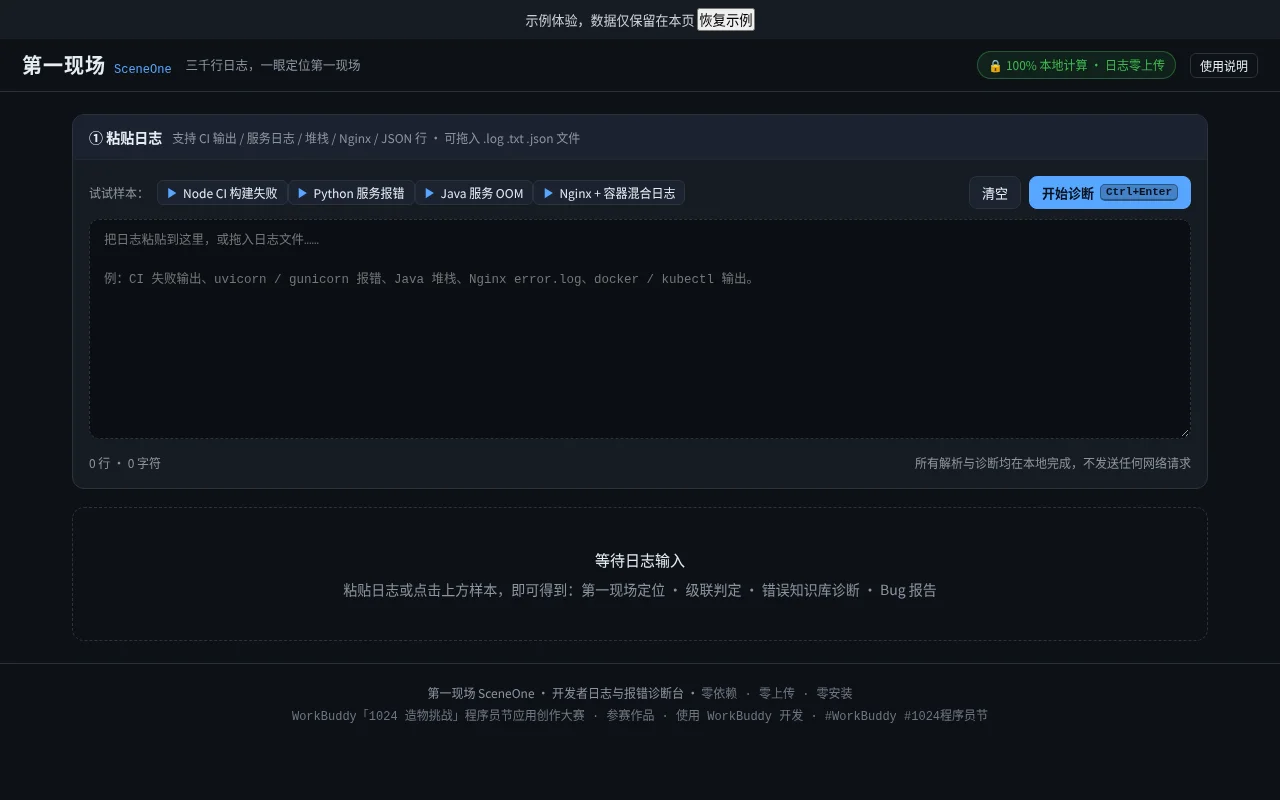
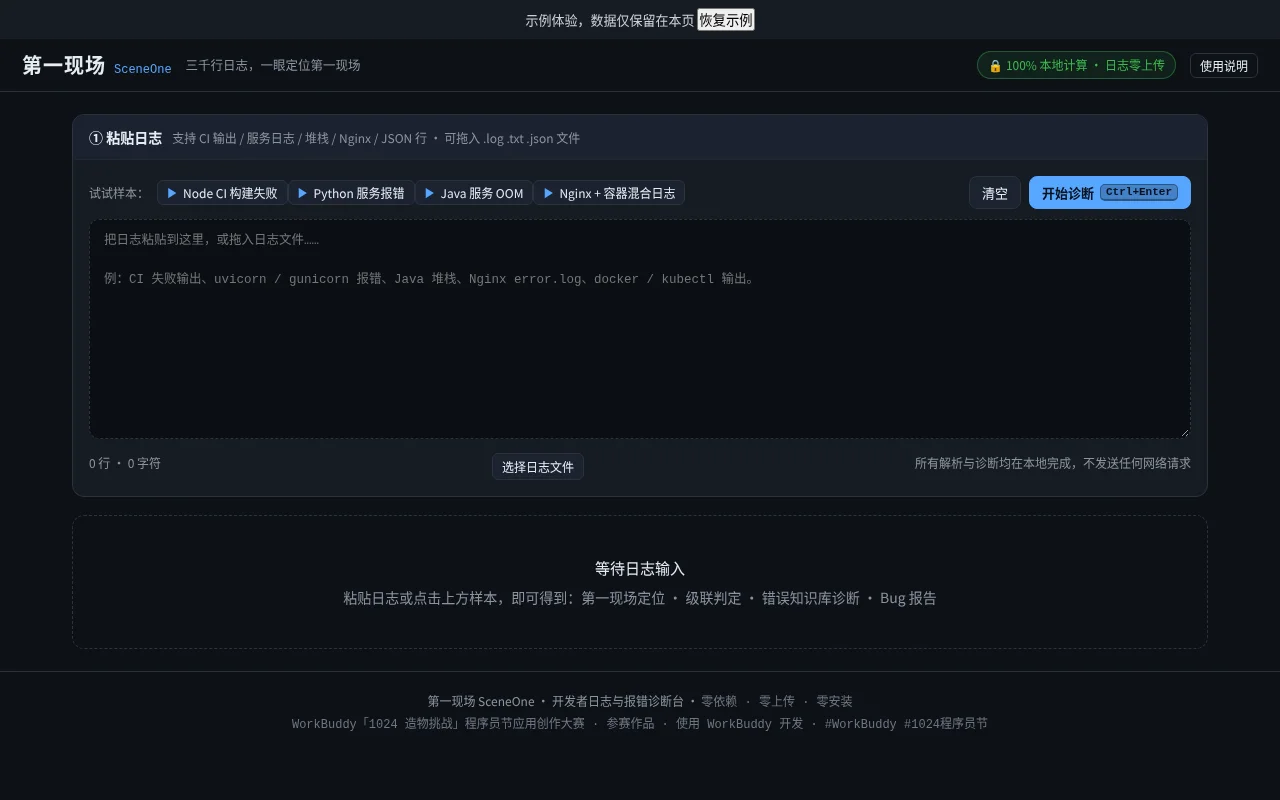
Support selecting log files on mobile

Changed region(s): [[0.2188, 0.8438, 0.7812, 0.9062], [0.25, 0.6875, 0.75, 0.7812], [0.375, 0.5625, 0.4375, 0.5938]]

diff --git a/wb1024-c406-8421653f/showcase/preview.html b/wb1024-c406-8421653f/showcase/preview.html
@@ -275,7 +275,7 @@ mark { background: rgba(210, 153, 34, .45); color: inherit; border-radius: 2px; 
         <div class="drop-hint">松开鼠标，开始读取文件</div>
       </div>
       <div class="input-meta">
-        <span id="inputCount">0 行 · 0 字符</span>
+        <span id="inputCount">0 行 · 0 字符</span> <label class="btn small" for="logFile">选择日志文件</label><input id="logFile" type="file" accept=".log,.txt,.json,text/plain,application/json" hidden>
         <span>所有解析与诊断均在本地完成，不发送任何网络请求</span>
       </div>
     </div>
@@ -2050,8 +2050,7 @@ Oct 21 16:31:10 node-3 kubelet[790]: Started container api-server`
     ['dragleave', 'drop'].forEach(function (ev) {
       dz.addEventListener(ev, function (e) { e.preventDefault(); dz.classList.remove('dragover'); });
     });
-    dz.addEventListener('drop', function (e) {
-      const f = e.dataTransfer.files && e.dataTransfer.files[0];
+    function readLogFile(f) {
       if (!f) return;
       if (f.size > 20 * 1024 * 1024) { toast('文件超过 20MB，请截取关键片段'); return; }
       const r = new FileReader();
@@ -2062,7 +2061,9 @@ Oct 21 16:31:10 node-3 kubelet[790]: Started container api-server`
       };
       r.onerror = function () { toast('文件读取失败'); };
       r.readAsText(f);
-    });
+    }
+    dz.addEventListener('drop', function (e) { readLogFile(e.dataTransfer.files && e.dataTransfer.files[0]); });
+    $('logFile').addEventListener('change', function (e) { readLogFile(e.target.files && e.target.files[0]); e.target.value = ''; });
   }
 
   /* ---------- 渲染 ---------- */

diff --git a/wb1024-c406-8421653f/src/app.js b/wb1024-c406-8421653f/src/app.js
@@ -65,8 +65,7 @@
     ['dragleave', 'drop'].forEach(function (ev) {
       dz.addEventListener(ev, function (e) { e.preventDefault(); dz.classList.remove('dragover'); });
     });
-    dz.addEventListener('drop', function (e) {
-      const f = e.dataTransfer.files && e.dataTransfer.files[0];
+    function readLogFile(f) {
       if (!f) return;
       if (f.size > 20 * 1024 * 1024) { toast('文件超过 20MB，请截取关键片段'); return; }
       const r = new FileReader();
@@ -77,7 +76,9 @@
       };
       r.onerror = function () { toast('文件读取失败'); };
       r.readAsText(f);
-    });
+    }
+    dz.addEventListener('drop', function (e) { readLogFile(e.dataTransfer.files && e.dataTransfer.files[0]); });
+    $('logFile').addEventListener('change', function (e) { readLogFile(e.target.files && e.target.files[0]); e.target.value = ''; });
   }
 
   /* ---------- 渲染 ---------- */

diff --git a/wb1024-c406-8421653f/src/body.html b/wb1024-c406-8421653f/src/body.html
@@ -30,7 +30,7 @@
         <div class="drop-hint">松开鼠标，开始读取文件</div>
       </div>
       <div class="input-meta">
-        <span id="inputCount">0 行 · 0 字符</span>
+        <span id="inputCount">0 行 · 0 字符</span> <label class="btn small" for="logFile">选择日志文件</label><input id="logFile" type="file" accept=".log,.txt,.json,text/plain,application/json" hidden>
         <span>所有解析与诊断均在本地完成，不发送任何网络请求</span>
       </div>
     </div>
